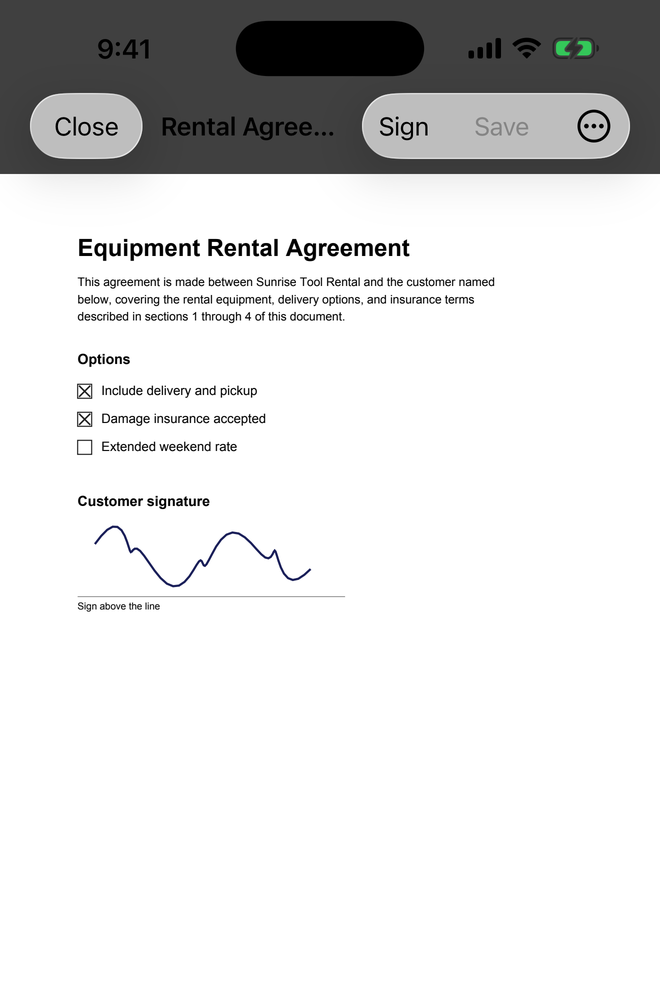
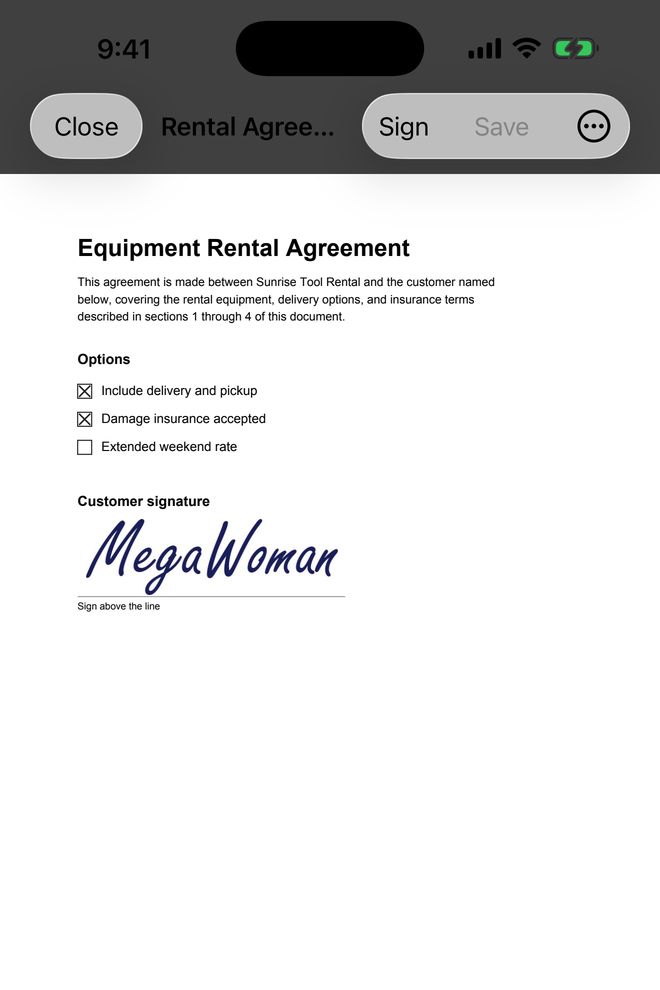
Website: MegaWoman screenshots + gallery section on the landing page
New hero crop and a four-shot "See it in action" gallery from the
refreshed App Store captures (handwritten MegaWoman signature, Mega W.
library entry); deployed to electricrv.ca/megapdf/.

Changed region(s): [[0.1212, 0.5152, 0.5152, 0.6061]]

diff --git a/website/megapdf/index.html b/website/megapdf/index.html
@@ -73,6 +73,20 @@
         .feature h3 .dot { color: var(--accent); }
         .feature p { color: var(--muted); font-size: 14.5px; }
 
+        .gallery { padding: 16px 0 48px; }
+        .gallery h2 { font-size: 26px; margin-bottom: 6px; }
+        .gallery p.lead { color: var(--muted); margin-bottom: 26px; }
+        .gallery .shots { display: grid; grid-template-columns: repeat(auto-fit, minmax(200px, 1fr));
+                          gap: 22px; }
+        .gallery figure { margin: 0; }
+        .gallery img {
+            width: 100%; border-radius: 18px; display: block;
+            border: 1px solid rgba(255,255,255,.12);
+            box-shadow: 0 14px 36px rgba(4, 33, 61, .45);
+        }
+        .gallery figcaption { color: var(--muted); font-size: 13.5px; margin-top: 10px;
+                              text-align: center; }
+
         .strip { border-top: 1px solid rgba(255,255,255,.06); padding: 34px 0; color: var(--muted);
                  font-size: 15px; }
         .strip .wrap { display: flex; gap: 20px; flex-wrap: wrap; justify-content: space-between; align-items: center; }
@@ -146,6 +160,29 @@
                    server for your documents to go to — and the code is open, so
                    anyone can check.</p>
             </article>
+        </section>
+
+        <section class="gallery" aria-label="Screenshots">
+            <h2>See it in action</h2>
+            <p class="lead">The real app, doing the real job — no mockups.</p>
+            <div class="shots">
+                <figure>
+                    <img src="shot-viewer.png" alt="A rental agreement with two checked boxes and a handwritten MegaWoman signature">
+                    <figcaption>Checked and signed in under a minute</figcaption>
+                </figure>
+                <figure>
+                    <img src="shot-sign.png" alt="The signature library sheet">
+                    <figcaption>Your signatures, saved on your device</figcaption>
+                </figure>
+                <figure>
+                    <img src="shot-draw.png" alt="Drawing a signature with a finger">
+                    <figcaption>Draw it once, use it everywhere</figcaption>
+                </figure>
+                <figure>
+                    <img src="shot-home.png" alt="The home screen with recent documents">
+                    <figcaption>No account. No cloud. No tracking.</figcaption>
+                </figure>
+            </div>
         </section>
 
         <section class="strip">
